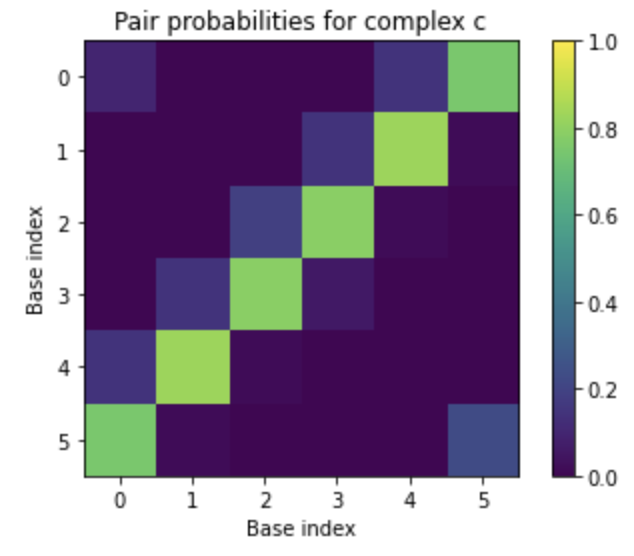
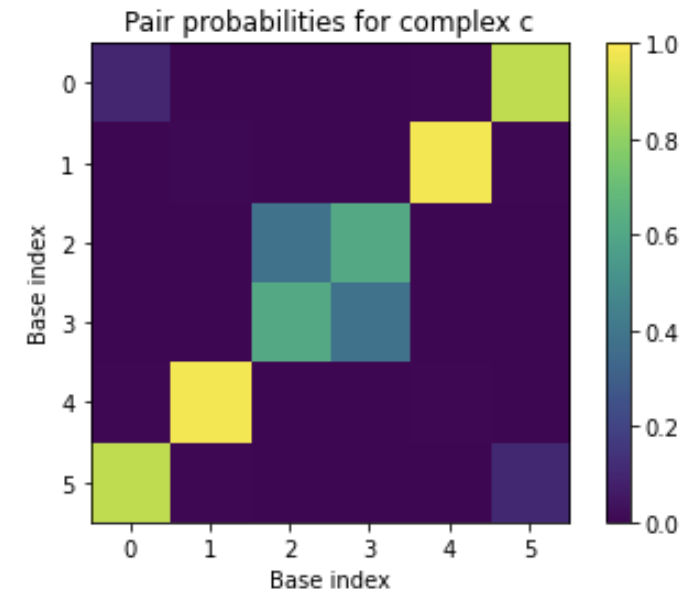
Edit for tube analysis example

diff --git a/sources/analysis.md b/sources/analysis.md
@@ -306,8 +306,8 @@ The optional `options` keyword specifies options that modify the calculations pe
 Scalar results of NUPACK analysis jobs can be conveniently displayed as a table, printed as text, or introspected programmatically. Consider the following test tube analysis job:
 
 ```python
-a = Strand('CCC', name='a')
-b = Strand('GGG', name='b')
+a = Strand('CCG', name='a')
+b = Strand('CGG', name='b')
 c = Complex([a, b], name='c')
 
 t1 = Tube({a: 1e-6, b: 1e-9}, complexes=SetSpec(max_size=2, include=[c]), name='t1')
@@ -345,12 +345,16 @@ Output:
 >   Complex      Pfunc dG (kcal/mol) MFE (kcal/mol)
 > 0     (a)  1.0000e+0         0.000          0.000
 > 1     (b)  1.0000e+0         0.000          0.000
-> 2   (a+b)  4.5255e+3        -5.188         -4.981
+> 2       c  1.3519e+3        -4.443         -4.081
+> 3   (a+a)  1.8846e+1        -1.810         -1.972
+> 4   (b+b)  1.7435e+2        -3.181         -3.523
 > Concentration results:
 > Complex    t1 (M)   Complex    t2 (M)
 >     (a) 1.000e-06       (a) 1.000e-08
->     (b) 9.999e-10       (b) 1.000e-09
->   (a+b) 8.207e-14     (a+b) 8.208e-16
+>     (b) 1.000e-09       (b) 1.000e-09
+>   (a+a) 3.418e-13         c 2.452e-16
+>       c 2.452e-14
+>   (b+b) 3.162e-18
 > ```
 
 For convenience, you can print the identical ASCII result to a text file using the `save_text` function:
@@ -410,17 +414,17 @@ Output:
 
 ```
 Physical quantities for complex c
-Complex free energy: -5.19 kcal/mol
-Partition function: 4.53e+03
+Complex free energy: -4.44 kcal/mol
+Partition function: 1.35e+03
 MFE proxy structure: (((+)))
-Free energy of MFE proxy structure: -4.98 kcal/mol
+Free energy of MFE proxy structure: -4.08 kcal/mol
 Equilibrium pair probabilities:
-[[0.1002 0.0000 0.0000 0.0007 0.1474 0.7518]
- [0.0000 0.0037 0.0000 0.1474 0.8307 0.0182]
- [0.0000 0.0000 0.1904 0.7910 0.0185 0.0001]
- [0.0007 0.1474 0.7910 0.0609 0.0000 0.0000]
- [0.1474 0.8307 0.0185 0.0000 0.0035 0.0000]
- [0.7518 0.0182 0.0001 0.0000 0.0000 0.2299]]
+[[0.1000 0.0000 0.0000 0.0000 0.0061 0.8938]
+ [0.0000 0.0083 0.0000 0.0000 0.9873 0.0044]
+ [0.0000 0.0000 0.3839 0.6161 0.0000 0.0000]
+ [0.0000 0.0000 0.6161 0.3839 0.0000 0.0000]
+ [0.0061 0.9873 0.0000 0.0000 0.0066 0.0000]
+ [0.8938 0.0044 0.0000 0.0000 0.0000 0.1018]]
 ```
 
 !!! Note
@@ -490,9 +494,11 @@ for my_complex, complex_result in my_result.complexes.items():
 Output:
 
 ```
-Expected number of unpaired nucleotides at equilibrium in complex (a+b) = 0.59
-Expected number of unpaired nucleotides at equilibrium in complex (a) = 3.00
+Expected number of unpaired nucleotides at equilibrium in complex c = 0.98
 Expected number of unpaired nucleotides at equilibrium in complex (b) = 3.00
+Expected number of unpaired nucleotides at equilibrium in complex (a+a) = 2.70
+Expected number of unpaired nucleotides at equilibrium in complex (b+b) = 2.25
+Expected number of unpaired nucleotides at equilibrium in complex (a) = 3.00
 ```
 
 To collect a `dict` of MFEs for each complex:
@@ -506,7 +512,7 @@ print(my_mfes)
 Output:
 
 ```
-{'(a+b)': -4.981351375579834, '(a)': 0.0, '(b)': 0.0}
+{'c': -4.081351280212402, '(b)': 0.0, '(a+a)': -1.9719057083129883, '(b+b)': -3.5225014686584473, '(a)': 0.0}
 ```
 
 To print out the complex concentrations for a given tube:
@@ -519,9 +525,11 @@ for my_complex, conc in my_result.tubes[t1].complex_concentrations.items():
 Output:
 
 ```
-The equilibrium concentration of (a+b) is 8.21e-14 M
-The equilibrium concentration of (a) is 1.00e-06 M
+The equilibrium concentration of c is 2.45e-14 M
 The equilibrium concentration of (b) is 1.00e-09 M
+The equilibrium concentration of (a+a) is 3.42e-13 M
+The equilibrium concentration of (b+b) is 3.16e-18 M
+The equilibrium concentration of (a) is 1.00e-06 M
 ```
 
 ---
@@ -546,9 +554,11 @@ for my_complex, conc in t1_result.complex_concentrations.items():
 Output:
 
 ```
-The equilibrium concentration of (a+b) is 8.207e-14 M
+The equilibrium concentration of c is 2.452e-14 M
+The equilibrium concentration of (b) is 1.000e-09 M
+The equilibrium concentration of (a+a) is 3.418e-13 M
+The equilibrium concentration of (b+b) is 3.162e-18 M
 The equilibrium concentration of (a) is 1.000e-06 M
-The equilibrium concentration of (b) is 9.999e-10 M
 ```
 
 Test tube ensemble pair fractions may be printed as follows:
@@ -563,9 +573,9 @@ Output:
 [[1.0000 0.0000 0.0000 0.0000 0.0000 0.0000]
  [0.0000 1.0000 0.0000 0.0000 0.0000 0.0000]
  [0.0000 0.0000 1.0000 0.0000 0.0000 0.0000]
- [0.0000 0.0000 0.0001 0.9999 0.0000 0.0000]
- [0.0000 0.0001 0.0000 0.0000 0.9999 0.0000]
- [0.0001 0.0000 0.0000 0.0000 0.0000 0.9999]]
+ [0.0000 0.0000 0.0000 1.0000 0.0000 0.0000]
+ [0.0000 0.0000 0.0000 0.0000 1.0000 0.0000]
+ [0.0000 0.0000 0.0000 0.0000 0.0000 1.0000]]
 ```
 
 ### Saving a job summary
